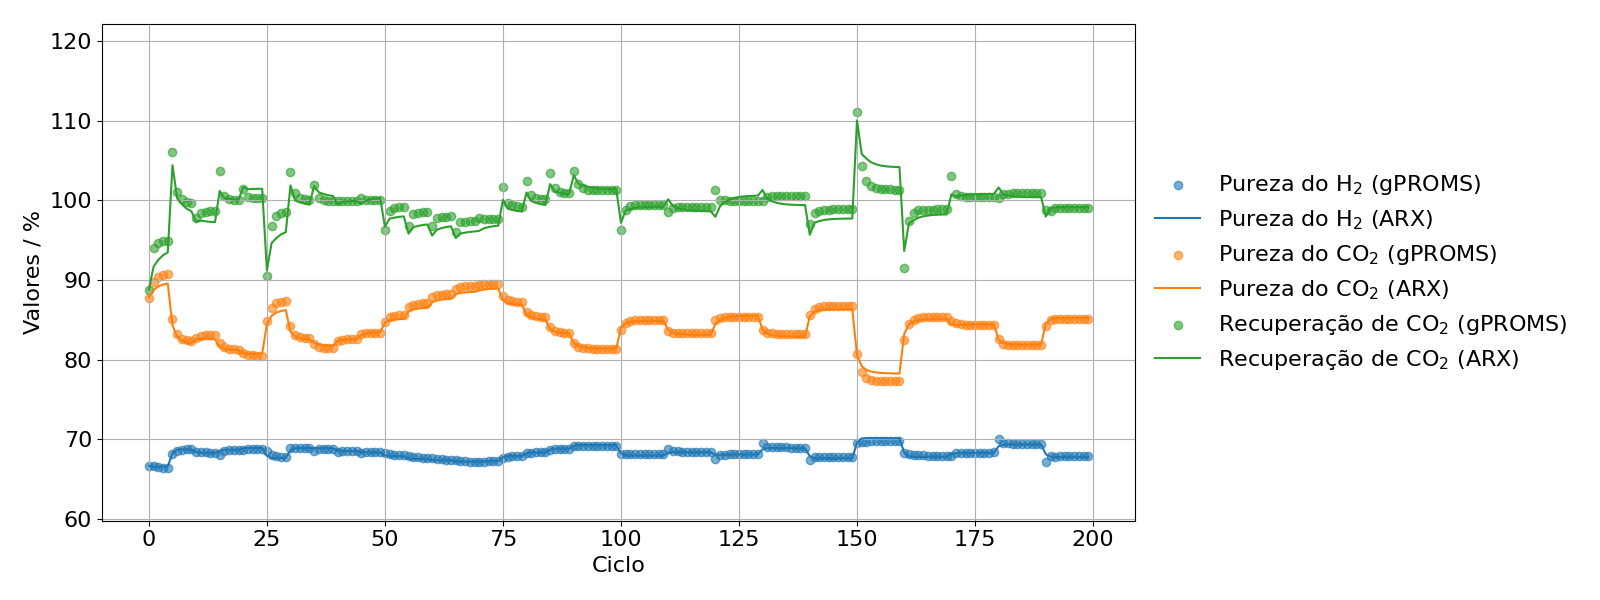
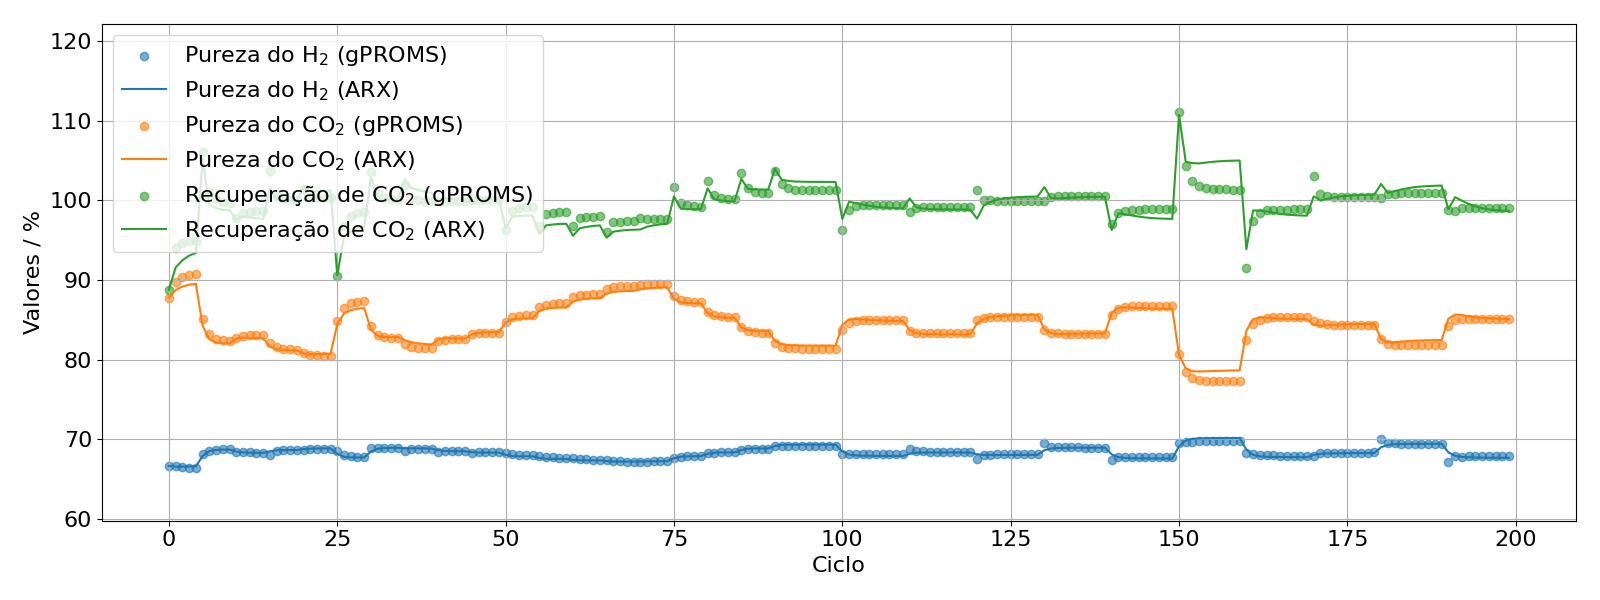
Split test/train

diff --git a/src/lib/plot.py b/src/lib/plot.py
@@ -1,8 +1,6 @@
 import matplotlib.pyplot as plt
 from matplotlib import colors as mcolors
 
-from .read_data import y_labels
-
 colors = list(mcolors.TABLEAU_COLORS.keys())
 
 plt.rcParams.update(
@@ -18,32 +16,3 @@ plt.rcParams.update(
 
 def legend_outside(ax: plt.Axes):
     ax.legend(loc="center left", bbox_to_anchor=(1, 0.5), frameon=False)
-
-
-def plot_comparison(cycles, real_y, model_y, model_name):
-    ymin = min(real_y[:, i].min() for i in range(len(y_labels)))
-    ymax = max(real_y[:, i].max() for i in range(len(y_labels)))
-
-    for i in range(len(y_labels)):
-        plt.scatter(
-            cycles,
-            real_y[:, i],
-            label=f"{y_labels[i]} (gPROMS)",
-            color=colors[i],
-            alpha=0.6,
-        )
-        plt.plot(
-            cycles,
-            model_y[:, i],
-            label=f"{y_labels[i]} ({model_name})",
-            color=colors[i],
-        )
-    plt.ylim(ymin * 0.9, ymax * 1.1)
-
-    legend_outside(plt.gca())
-    plt.ylabel("Valores / %")
-    plt.xlabel("Ciclo")
-
-    # plt.show()
-    plt.savefig(f"../figures/comparision-{model_name}.png")
-    plt.close()

diff --git a/src/MATLAB/IHMPC/ihmpc_slack.m b/src/MATLAB/IHMPC/ihmpc_slack.m
@@ -9,13 +9,17 @@ u_ref = [680 265 130 80]';
 
 % MPC model
 Ts = 1;
-Atil = [ 0.2792203   0.02763794  0.01117108
-    0.57325222  0.48250734  0.01838668
-    2.10240983  1.34213896 -0.05194512];
+Atil = [
+    0.36680423  0.00291944  0.01495648;
+    0.79812824  0.52521079  0.00582260;
+    2.53424450  1.50011943 -0.08998492
+    ];
 
-Btil = [-0.00843015 -0.01770224  0.00648659  0.02642573
-    0.01754253  0.05775458  0.01223204 -0.08700032
-    -0.03213628 -0.10387186  0.05116795  0.26545967];
+Btil = [
+    -0.00730930 -0.01390491  0.00368511  0.01883900;
+    0.01769563  0.05777156  0.01447885 -0.08710176;
+    -0.03392627 -0.11353344  0.04679554  0.27048997
+    ];
 
 Ctil = eye(3);
 Dtil = zeros(size(Ctil,1), size(Btil,2));

diff --git a/src/MATLAB/incremental/sim_issmpc.m b/src/MATLAB/incremental/sim_issmpc.m
@@ -12,14 +12,17 @@ u_ref = [680 265 130 80]';
 ny = 3;
 nu = 4;
 
-Atil = [ 0.2792203   0.02763794  0.01117108
-    0.57325222  0.48250734  0.01838668
-    2.10240983  1.34213896 -0.05194512];
+Atil = [
+    0.36680423  0.00291944  0.01495648;
+    0.79812824  0.52521079  0.00582260;
+    2.53424450  1.50011943 -0.08998492
+    ];
 
-Btil = [-0.00843015 -0.01770224  0.00648659  0.02642573
-    0.01754253  0.05775458  0.01223204 -0.08700032
-    -0.03213628 -0.10387186  0.05116795  0.26545967];
-
+Btil = [
+    -0.00730930 -0.01390491  0.00368511  0.01883900;
+    0.01769563  0.05777156  0.01447885 -0.08710176;
+    -0.03392627 -0.11353344  0.04679554  0.27048997
+    ];
 Ctil = eye(3);
 
 [A,B,C]=immpc(Atil,Btil,Ctil);
